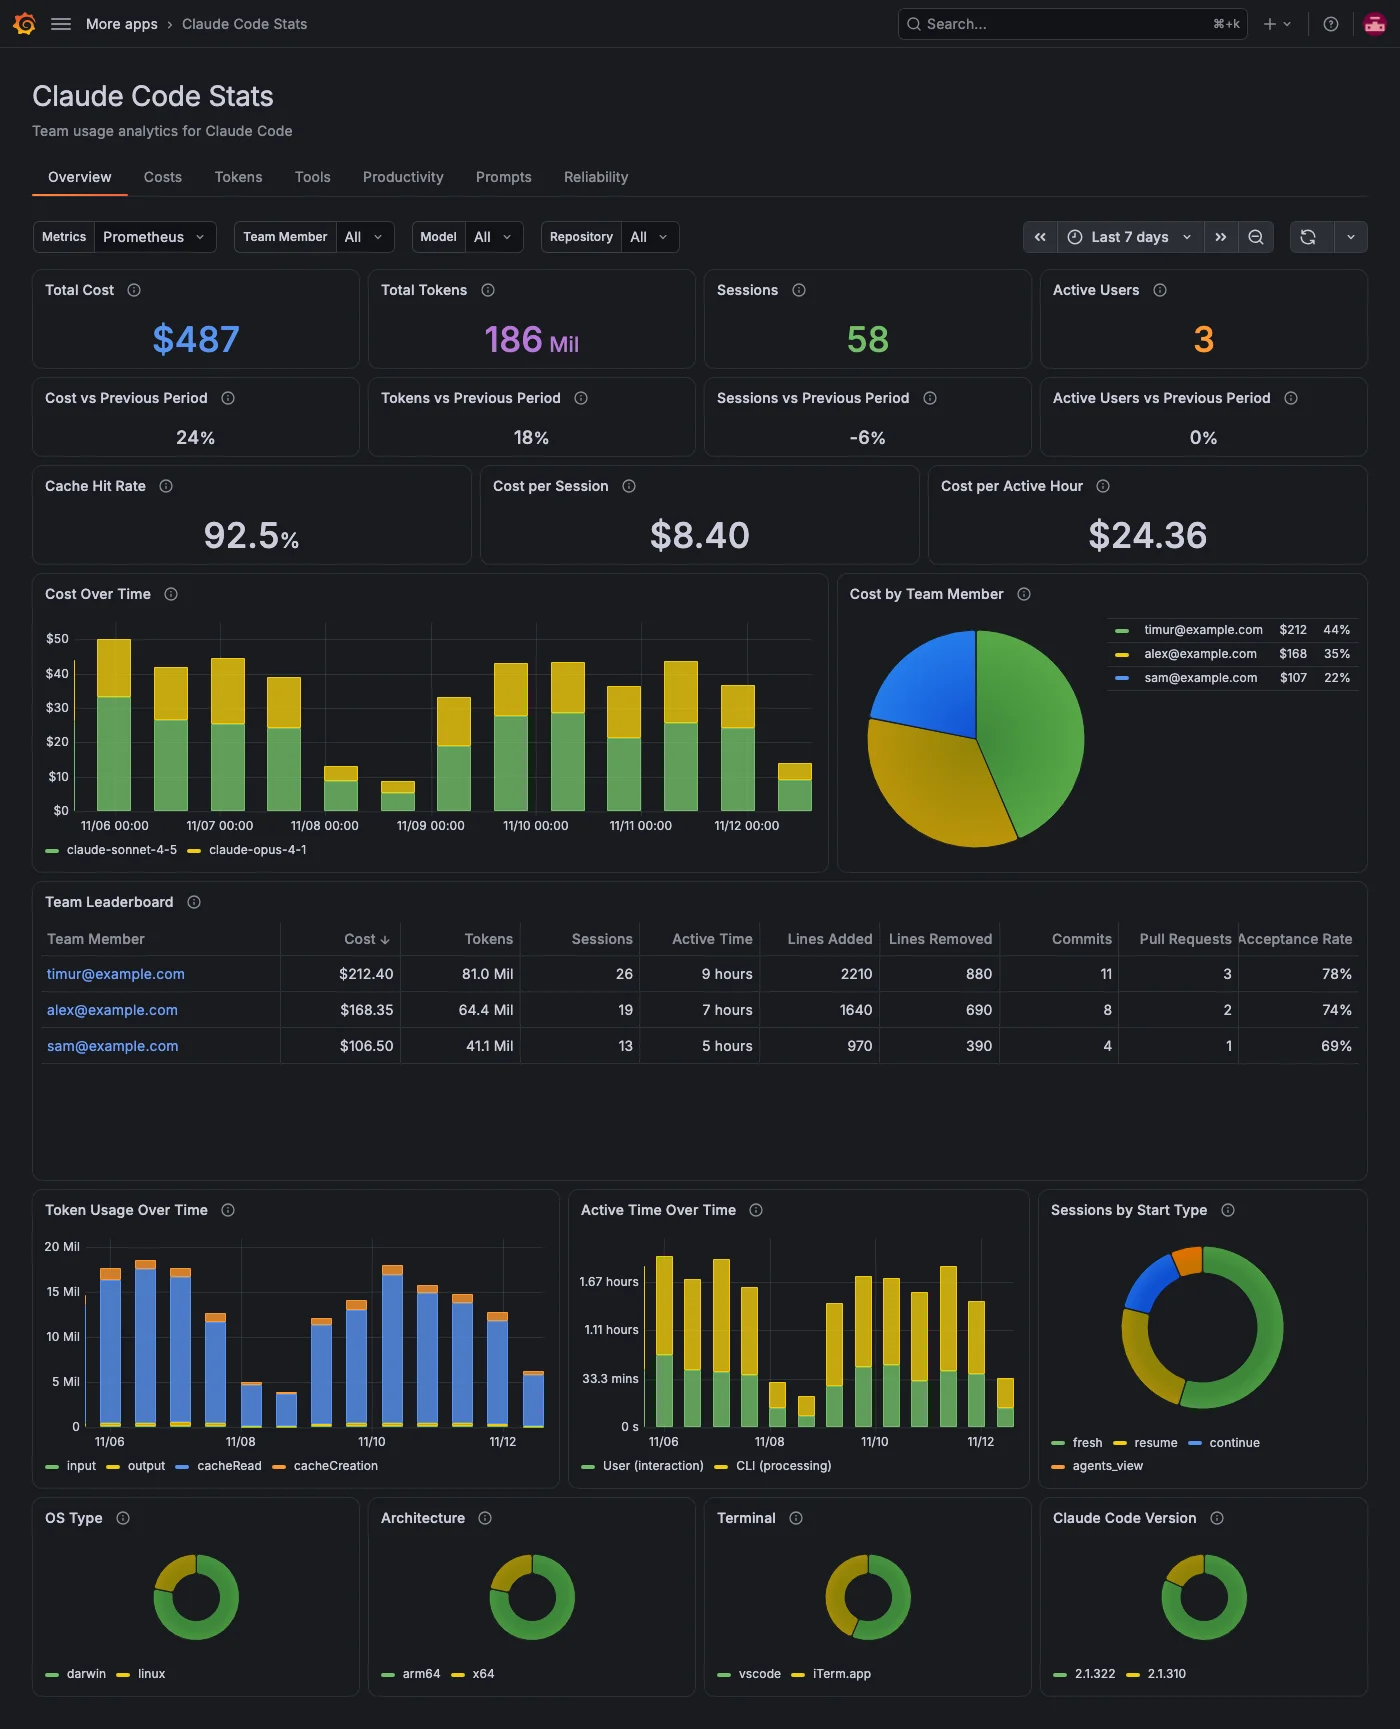
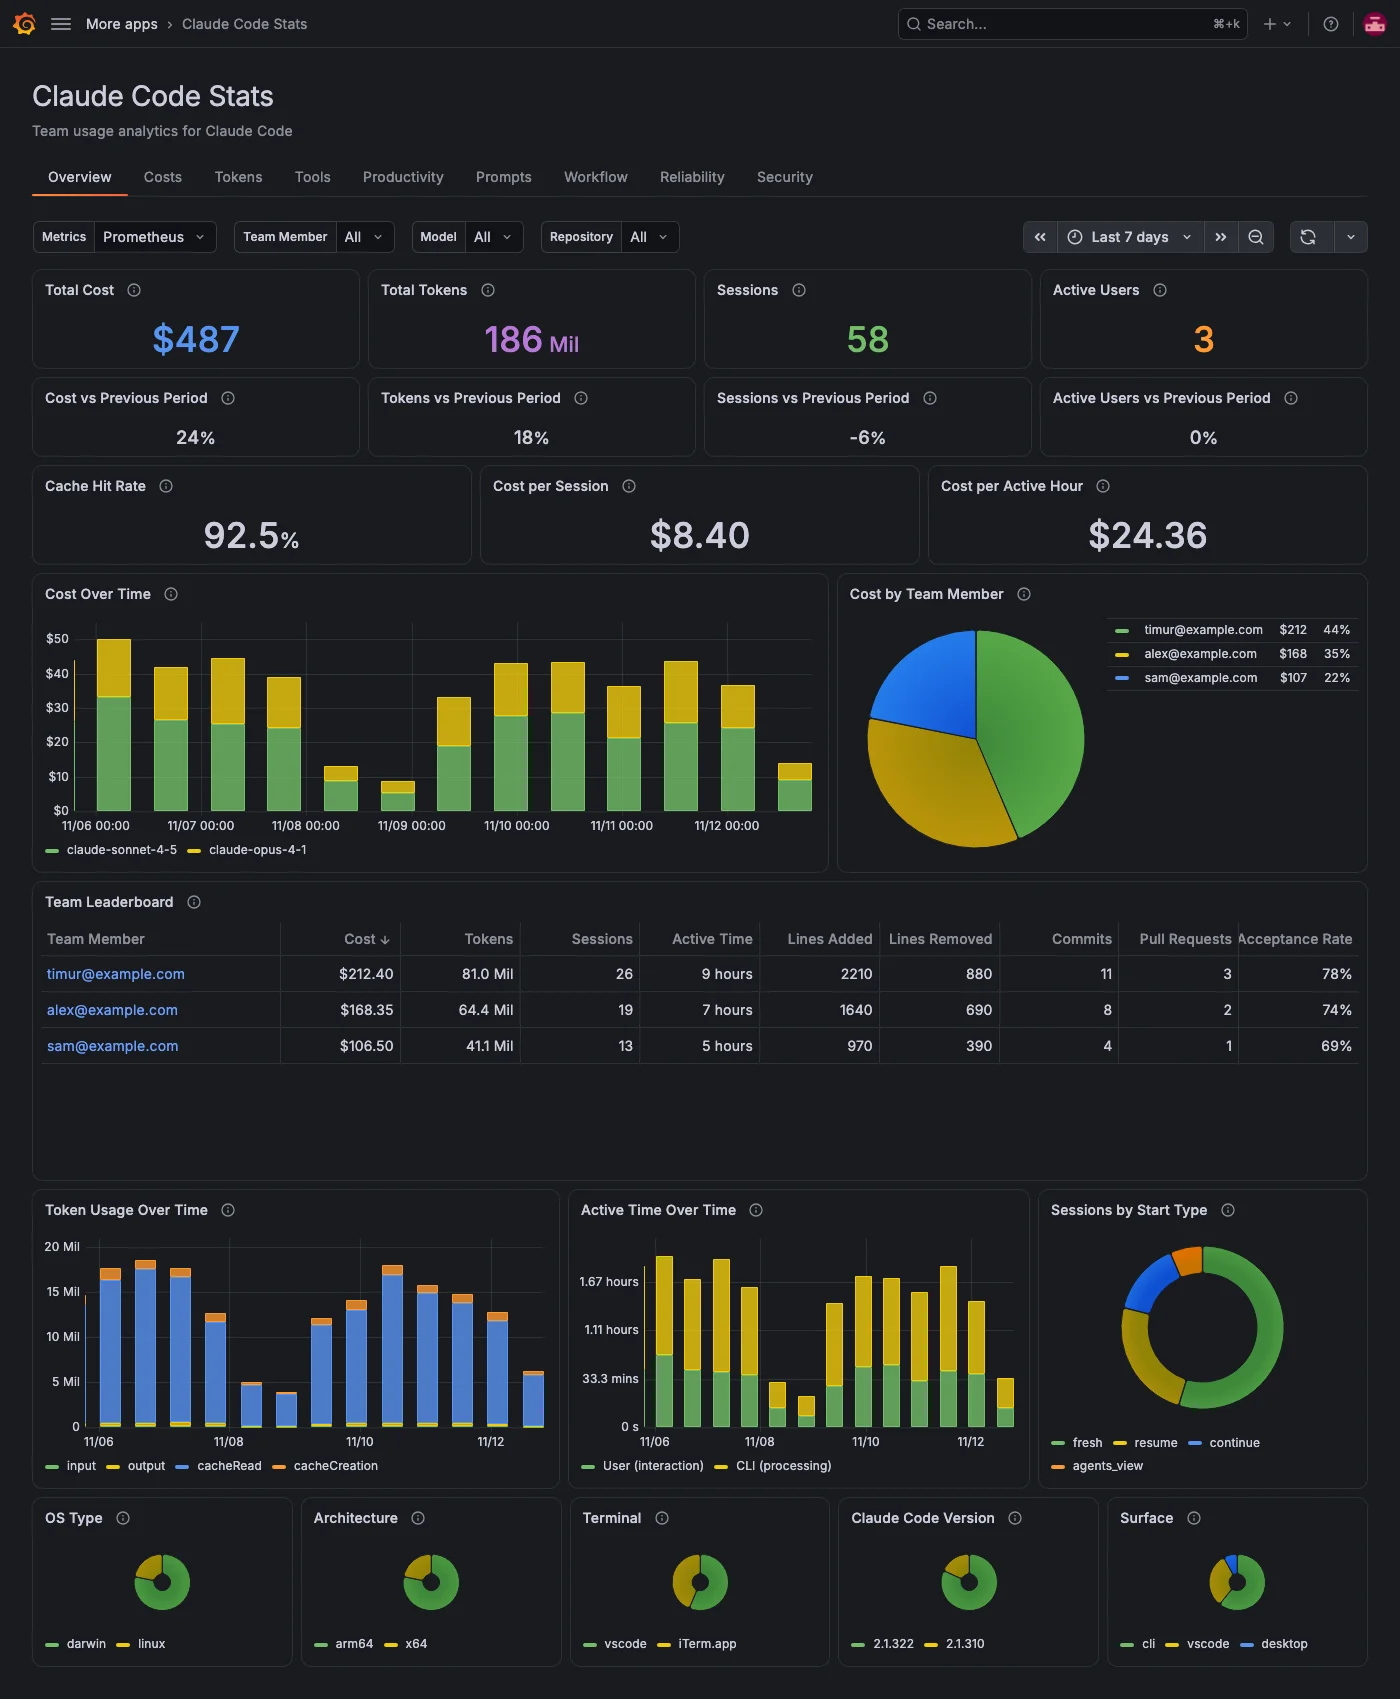
feat: empty-state hints on attribution panels; usage by surface (#58) (#88)
* feat: change vs previous period for the Overview totals (#58)

* fix: one stat per trend; a drop to nothing shows -100%

* feat: empty-state hints on attribution panels; Surface (entrypoint) on Overview (#58)

* docs: recapture Overview screenshot

diff --git a/src/scenes/pages/OverviewScene.ts b/src/scenes/pages/OverviewScene.ts
@@ -14,7 +14,7 @@ import {
 import { BigValueGraphMode, LegendDisplayMode } from '@grafana/schema';
 import { ACTIVE_TIME_TYPE_NAMES, changeVsPrevious, QUERIES, Queries } from '../queries';
 import { OVER_TIME_MIN_STEP, OVER_TIME_QUERY_OPTIONS, overTimeBars } from '../panelStyle';
-import { PANEL_HEIGHTS } from '../../constants';
+import { LABELS, PANEL_HEIGHTS } from '../../constants';
 import { teamLeaderboard } from './leaderboard';
 
 /** A single-value stat for an efficiency ratio. */
@@ -182,6 +182,17 @@ export function getOverviewScene(
   });
 
   // Environment queries
+  const usageByEntrypointQuery = new SceneQueryRunner({
+    datasource: { type: 'prometheus', uid: '${prometheus_ds}' },
+    queries: [
+      {
+        refId: 'UsageByEntrypoint',
+        expr: queries.usageByEntrypoint,
+        legendFormat: `{{${LABELS.ENTRYPOINT}}}`,
+        instant: true,
+      },
+    ],
+  });
   const usageByOsTypeQuery = new SceneQueryRunner({
     datasource: { type: 'prometheus', uid: '${prometheus_ds}' },
     queries: [
@@ -421,13 +432,13 @@ export function getOverviewScene(
             }),
           ],
         }),
-        // Row 4: Environment
+        // Row 4: Environment (adoption details, so a slimmer row at the bottom)
         new SceneFlexLayout({
           direction: 'row',
-          height: PANEL_HEIGHTS.MEDIUM,
+          height: 170,
           children: [
             new SceneFlexItem({
-              width: '25%',
+              width: '20%',
               body: PanelBuilders.piechart()
                 .setTitle('OS Type')
                 .setDescription('Usage split by operating system, weighted by cost.')
@@ -437,7 +448,7 @@ export function getOverviewScene(
                 .build(),
             }),
             new SceneFlexItem({
-              width: '25%',
+              width: '20%',
               body: PanelBuilders.piechart()
                 .setTitle('Architecture')
                 .setDescription('Usage split by host architecture, weighted by cost.')
@@ -447,7 +458,7 @@ export function getOverviewScene(
                 .build(),
             }),
             new SceneFlexItem({
-              width: '25%',
+              width: '20%',
               body: PanelBuilders.piechart()
                 .setTitle('Terminal')
                 .setDescription('Usage split by terminal type, weighted by cost.')
@@ -457,13 +468,26 @@ export function getOverviewScene(
                 .build(),
             }),
             new SceneFlexItem({
-              width: '25%',
+              width: '20%',
               body: PanelBuilders.piechart()
                 .setTitle('Claude Code Version')
                 .setDescription('Usage split by Claude Code version, weighted by cost.')
                 .setData(usageByServiceVersionQuery)
                 .setOption('legend', { displayMode: LegendDisplayMode.List, placement: 'bottom' })
                 .setOption('pieType', 'donut' as never)
+                .build(),
+            }),
+            new SceneFlexItem({
+              width: '20%',
+              body: PanelBuilders.piechart()
+                .setTitle('Surface')
+                .setDescription(
+                  'Usage split by where Claude Code ran: the CLI, the VS Code extension, the desktop app or the SDK, weighted by cost.'
+                )
+                .setData(usageByEntrypointQuery)
+                .setOption('legend', { displayMode: LegendDisplayMode.List, placement: 'bottom' })
+                .setOption('pieType', 'donut' as never)
+                .setNoValue('Needs OTEL_METRICS_INCLUDE_ENTRYPOINT=true')
                 .build(),
             }),
           ],

diff --git a/src/scenes/pages/CostsScene.ts b/src/scenes/pages/CostsScene.ts
@@ -285,6 +285,7 @@ export function getCostsScene(
                 'Cost by Subagent',
                 'currencyUSD',
                 {
+                  noValue: 'No subagent ran in this period',
                   description:
                     'Estimated cost by the subagent type that issued the request. User-defined and third-party names show as custom or third-party unless team members set OTEL_LOG_TOOL_DETAILS=1. Empty when nothing used one.',
                 }
@@ -306,6 +307,7 @@ export function getCostsScene(
                 'Cost by Skill',
                 'currencyUSD',
                 {
+                  noValue: 'No skill was active in this period',
                   description:
                     'Estimated cost by the skill that was active. User-defined and third-party names show as custom or third-party unless team members set OTEL_LOG_TOOL_DETAILS=1. Empty when nothing used one.',
                 }
@@ -320,6 +322,7 @@ export function getCostsScene(
                 'Cost by MCP Server',
                 'currencyUSD',
                 {
+                  noValue: 'No MCP tool result was used in this period',
                   description:
                     'Estimated cost by the MCP server whose tool result the request used. User-defined and third-party names show as custom or third-party unless team members set OTEL_LOG_TOOL_DETAILS=1. Empty when nothing used one.',
                 }
@@ -341,6 +344,7 @@ export function getCostsScene(
                 'Cost by Plugin',
                 'currencyUSD',
                 {
+                  noValue: 'No plugin skill or subagent ran in this period',
                   description:
                     'Estimated cost by the plugin that owns the active skill or subagent. User-defined and third-party names show as custom or third-party unless team members set OTEL_LOG_TOOL_DETAILS=1. Empty when nothing used one.',
                 }
@@ -355,6 +359,7 @@ export function getCostsScene(
                 'Cost by MCP Tool',
                 'currencyUSD',
                 {
+                  noValue: 'No MCP tool result was used in this period',
                   legendFormat: '{{mcp_server_name}} / {{mcp_tool_name}}',
                   description:
                     'Estimated cost by MCP tool, shown as server / tool, for requests that used an MCP tool result. User-defined and third-party names show as custom or third-party unless team members set OTEL_LOG_TOOL_DETAILS=1. Empty when nothing used one.',

diff --git a/src/scenes/pages/TokensScene.ts b/src/scenes/pages/TokensScene.ts
@@ -326,6 +326,7 @@ export function getTokensScene(
                 'Tokens by Subagent',
                 'short',
                 {
+                  noValue: 'No subagent ran in this period',
                   description:
                     'Tokens by the subagent type that issued the request. User-defined and third-party names show as custom or third-party unless team members set OTEL_LOG_TOOL_DETAILS=1. Empty when nothing used one.',
                 }
@@ -347,6 +348,7 @@ export function getTokensScene(
                 'Tokens by Skill',
                 'short',
                 {
+                  noValue: 'No skill was active in this period',
                   description:
                     'Tokens by the skill that was active. User-defined and third-party names show as custom or third-party unless team members set OTEL_LOG_TOOL_DETAILS=1. Empty when nothing used one.',
                 }
@@ -361,6 +363,7 @@ export function getTokensScene(
                 'Tokens by MCP Server',
                 'short',
                 {
+                  noValue: 'No MCP tool result was used in this period',
                   description:
                     'Tokens by the MCP server whose tool result the request used. User-defined and third-party names show as custom or third-party unless team members set OTEL_LOG_TOOL_DETAILS=1. Empty when nothing used one.',
                 }
@@ -382,6 +385,7 @@ export function getTokensScene(
                 'Tokens by Plugin',
                 'short',
                 {
+                  noValue: 'No plugin skill or subagent ran in this period',
                   description:
                     'Tokens by the plugin that owns the active skill or subagent. User-defined and third-party names show as custom or third-party unless team members set OTEL_LOG_TOOL_DETAILS=1. Empty when nothing used one.',
                 }
@@ -396,6 +400,7 @@ export function getTokensScene(
                 'Tokens by MCP Tool',
                 'short',
                 {
+                  noValue: 'No MCP tool result was used in this period',
                   legendFormat: '{{mcp_server_name}} / {{mcp_tool_name}}',
                   description:
                     'Tokens by MCP tool, shown as server / tool, for requests that used an MCP tool result. User-defined and third-party names show as custom or third-party unless team members set OTEL_LOG_TOOL_DETAILS=1. Empty when nothing used one.',

diff --git a/tests/mocks/prometheus.ts b/tests/mocks/prometheus.ts
@@ -40,6 +40,8 @@ export const OS_TYPES = ['darwin', 'linux'] as const;
 export const HOST_ARCHES = ['arm64', 'x64'] as const;
 export const TERMINAL_TYPES = ['vscode', 'iTerm.app'] as const;
 export const SERVICE_VERSIONS = ['2.1.322', '2.1.310'] as const;
+// `app_entrypoint` values (OTEL_METRICS_INCLUDE_ENTRYPOINT=true).
+export const ENTRYPOINTS = ['cli', 'vscode', 'desktop'] as const;
 // Session start types emitted on claude_code_session_count_total.
 export const START_TYPES = ['fresh', 'resume', 'continue', 'agents_view'] as const;
 // Attribution dimensions (what is driving spend).
@@ -101,6 +103,7 @@ const COST = {
   byHostArch: { arm64: 381.25, x64: 106.0 },
   byTerminalType: { vscode: 274.85, 'iTerm.app': 212.4 },
   byServiceVersion: { '2.1.322': 398.75, '2.1.310': 88.5 },
+  byEntrypoint: { cli: 296.4, vscode: 152.1, desktop: 38.75 },
 };
 
 const M = 1_000_000;
@@ -530,6 +533,7 @@ const DATASET: Record<string, FrameBuilder> = {
   UsageByHostArch: (id) => instantSeriesFrames(id, 'host_arch', COST.byHostArch),
   UsageByTerminalType: (id) => instantSeriesFrames(id, 'terminal_type', COST.byTerminalType),
   UsageByServiceVersion: (id) => instantSeriesFrames(id, 'service_version', COST.byServiceVersion),
+  UsageByEntrypoint: (id) => instantSeriesFrames(id, 'app_entrypoint', COST.byEntrypoint),
 
   // --- tools ---
   ToolDecisions: (id) => instantSeriesFrames(id, 'decision', DECISIONS_BY_TYPE),

diff --git a/tests/costs.spec.ts b/tests/costs.spec.ts
@@ -1,6 +1,7 @@
 import { test, expect } from './fixtures';
 import { panelByTitle, legendItem } from './mocks/panels';
 import {
+  mockEmptyPanels,
   DISPLAY,
   MODELS,
   MEMBERS,
@@ -98,5 +99,19 @@ test.describe('Costs scene', () => {
     for (const effort of EFFORTS) {
       await expect(legendItem(app, selectors, 'Cost by Effort', effort)).toBeVisible();
     }
+  });
+
+  test('says when nothing used a subagent, skill, MCP tool or plugin', async ({
+    mockData,
+    gotoPage,
+    page,
+    selectors,
+  }) => {
+    await mockEmptyPanels(page, ['CostByAgent', 'CostBySkill', 'CostByMcpServer', 'CostByMcpTool', 'CostByPlugin']);
+    const app = await gotoPage('costs');
+    await expect(panelByTitle(app, selectors, 'Cost by Subagent')).toContainText('No subagent ran in this period');
+    await expect(panelByTitle(app, selectors, 'Cost by Skill')).toContainText('No skill was active in this period');
+    await expect(panelByTitle(app, selectors, 'Cost by MCP Tool')).toContainText('No MCP tool result was used');
+    await expect(panelByTitle(app, selectors, 'Cost by Plugin')).toContainText('No plugin skill or subagent ran');
   });
 });

diff --git a/tests/overview.spec.ts b/tests/overview.spec.ts
@@ -13,6 +13,7 @@ import {
   HOST_ARCHES,
   TERMINAL_TYPES,
   SERVICE_VERSIONS,
+  ENTRYPOINTS,
   START_TYPES,
 } from './mocks/prometheus';
 
@@ -49,6 +50,21 @@ test.describe('Overview scene', () => {
     for (const [refId, name] of TREND_PANELS.filter(([refId]) => refId !== 'TotalTokensChange')) {
       await expect(panelByTitle(app, selectors, `${name} vs Previous Period`)).toContainText(`${TRENDS[refId]}%`);
     }
+  });
+
+  test('shows usage by surface, with a hint when entrypoints are not sent', async ({
+    mockData,
+    gotoPage,
+    page,
+    selectors,
+  }) => {
+    let app = await gotoPage();
+    for (const entrypoint of ENTRYPOINTS) {
+      await expect(legendItem(app, selectors, 'Surface', entrypoint)).toBeVisible();
+    }
+    await mockEmptyPanels(page, ['UsageByEntrypoint']);
+    app = await gotoPage();
+    await expect(panelByTitle(app, selectors, 'Surface')).toContainText('OTEL_METRICS_INCLUDE_ENTRYPOINT=true');
   });
 
   test('renders the efficiency ratios', async ({ mockData, gotoPage, selectors }) => {

diff --git a/src/scenes/queries.ts b/src/scenes/queries.ts
@@ -336,6 +336,9 @@ function buildQueries(m: MetricNames, dimensions: FilterDimension[] = getFilterD
 
     /** Usage by service version */
     usageByServiceVersion: `sum by (${LABELS.SERVICE_VERSION}) (${scoped('increase', m.COST_USAGE, '$__range')})`,
+
+    /** Usage by entrypoint (CLI, VS Code, desktop app, SDK...); needs OTEL_METRICS_INCLUDE_ENTRYPOINT=true */
+    usageByEntrypoint: `sum by (${LABELS.ENTRYPOINT}) (${scoped('increase', m.COST_USAGE, '$__range', `${LABELS.ENTRYPOINT}=~".+"`)})`,
   };
 }
 

diff --git a/src/constants.ts b/src/constants.ts
@@ -89,6 +89,7 @@ export const LABELS = {
   HOST_ARCH: 'host_arch',
   SERVICE_VERSION: 'service_version',
   TERMINAL_TYPE: 'terminal_type',
+  ENTRYPOINT: 'app_entrypoint', // cli, vscode, desktop, sdk...; needs OTEL_METRICS_INCLUDE_ENTRYPOINT=true
 } as const;
 
 // Default time ranges

diff --git a/catalog-docs/index.md b/catalog-docs/index.md
@@ -145,6 +145,7 @@ Some panels need an extra Claude Code setting or a minimum Claude Code version. 
 | Readable names for team members who use an API key, Amazon Bedrock, Google Cloud or Microsoft Foundry                                               | `enduser.id` in `OTEL_RESOURCE_ATTRIBUTES`. For details, refer to [Name team members who don't sign in with a Claude account](#name-team-members-who-dont-sign-in-with-a-claude-account).                                                                              |
 | The **Prompts**, **Workflow**, **Reliability** and **Security** tabs and the tool performance panels on the **Tools** tab                           | `OTEL_LOGS_EXPORTER=otlp` and a Loki data source. For details, refer to [Send events to Loki](#send-events-to-loki).                                                                                                                                                   |
 | The **Traces** tab                                                                                                                                  | `CLAUDE_CODE_ENHANCED_TELEMETRY_BETA=1`, `OTEL_TRACES_EXPORTER=otlp` and a Tempo data source. For details, refer to [Send traces to Tempo](#send-traces-to-tempo).                                                                                                     |
+| **Surface** on the **Overview** tab                                                                                                                 | `OTEL_METRICS_INCLUDE_ENTRYPOINT=true`.                                                                                                                                                                                                                                |
 | **Lines of Code by Model**                                                                                                                          | Claude Code v2.1.172 or later. Lines from older versions appear as `unknown`.                                                                                                                                                                                          |
 
 #### Filter by repository

diff --git a/catalog-docs/features/costs.md b/catalog-docs/features/costs.md
@@ -39,7 +39,7 @@ The bar gauges attribute cost to what issued each request, largest first:
 | **Cost by Speed (Fast Mode)** | `fast` for fast mode, `normal` otherwise.                      |
 | **Cost by Effort**            | The effort level, or `default` when the model doesn't use one. |
 
-**Cost by Subagent**, **Cost by Skill**, **Cost by MCP Server**, **Cost by Plugin** and **Cost by MCP Tool** show no data when no request in the period used one. User-defined subagents, third-party skills and plugins, and user-configured MCP servers and their tools show as `custom` or `third-party` unless team members set `OTEL_LOG_TOOL_DETAILS=1`. **Cost by Repository** needs `OTEL_METRICS_INCLUDE_REPOSITORY=true`. For details, refer to [Optional telemetry settings](../index.md#optional-telemetry-settings).
+**Cost by Subagent**, **Cost by Skill**, **Cost by MCP Server**, **Cost by Plugin** and **Cost by MCP Tool** say so when nothing in the period used one, such as **No skill was active in this period**. User-defined subagents, third-party skills and plugins, and user-configured MCP servers and their tools show as `custom` or `third-party` unless team members set `OTEL_LOG_TOOL_DETAILS=1`. **Cost by Repository** needs `OTEL_METRICS_INCLUDE_REPOSITORY=true`. For details, refer to [Optional telemetry settings](../index.md#optional-telemetry-settings).
 
 ## Filters on this tab
 

diff --git a/catalog-docs/features/overview.md b/catalog-docs/features/overview.md
@@ -52,7 +52,7 @@ The second row shows three ratios for the period:
 
 ## Check your team's environment
 
-The bottom row shows how usage splits across environments, weighted by cost: **OS Type**, **Architecture**, **Terminal** and **Claude Code Version**.
+The bottom row shows how usage splits across environments, weighted by cost: **OS Type**, **Architecture**, **Terminal**, **Claude Code Version** and **Surface**. **Surface** shows where Claude Code ran, such as the CLI, the VS Code extension, the desktop app or the SDK. It needs `OTEL_METRICS_INCLUDE_ENTRYPOINT=true` and says so when it's missing.
 
 ## Filters on this tab
 
